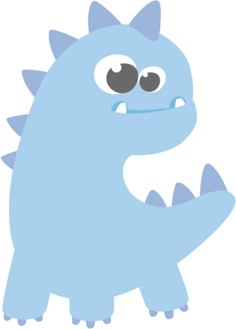
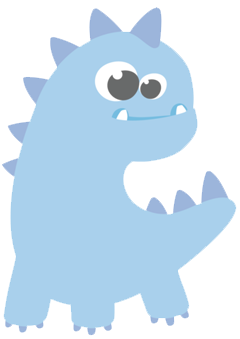
added christmas dino

diff --git a/src/View/Widgets/WelcomeWidget.cpp b/src/View/Widgets/WelcomeWidget.cpp
@@ -2,13 +2,19 @@
 #include "View/Theme.h"
 #include "Presenter/MainPresenter.h"
 #include "View/Widgets/AboutDialog.h"
-
+#include <QDate>
 WelcomeWidget::WelcomeWidget(MainPresenter& p, QWidget *parent)
 	: QWidget(parent)
 {
 	ui.setupUi(this);
 
-	ui.cornerLabel->setPixmap(QPixmap(":/icons/dinoSmall.png"));
+    ui.cornerLabel->setPixmap(
+        QDate::currentDate().month() == 12 ?
+        QPixmap(":/icons/dinoChristmas.png")
+        :
+        QPixmap(":/icons/dinoSmall.png")
+    );
+
 	setStyleSheet("background-color:" + Theme::colorToString(Theme::background));
 
     ui.ambButton->setIcon(QIcon(":/icons/icon_sheet.png"));
